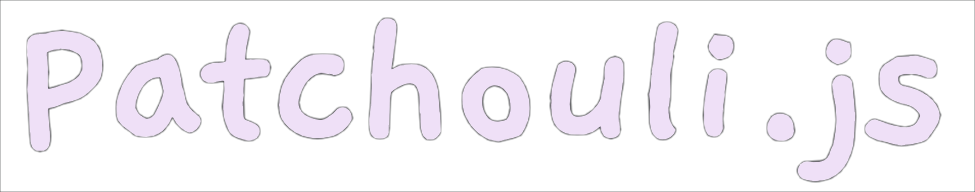
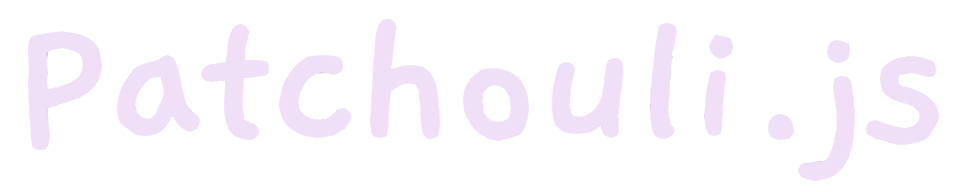
fix title bug

diff --git a/README.md b/README.md
@@ -16,7 +16,7 @@
   <img src="https://s1.imagehub.cc/images/2024/11/23/061628d0fab6b4699c2c7b58a57dcd2f.png" 
        alt="Description" 
        style="width: 150px; height: 150px;" />
-<img src="https://s1.imagehub.cc/images/2024/11/23/8990f2c35a138914b2693c4c672761a8.png" 
+<img src="https://s1.imagehub.cc/images/2024/11/23/61fdec4ace5670711d55156671145e51.png" 
        alt="Description" 
        style="width: 360px; height: 60px;" />
 </div>
